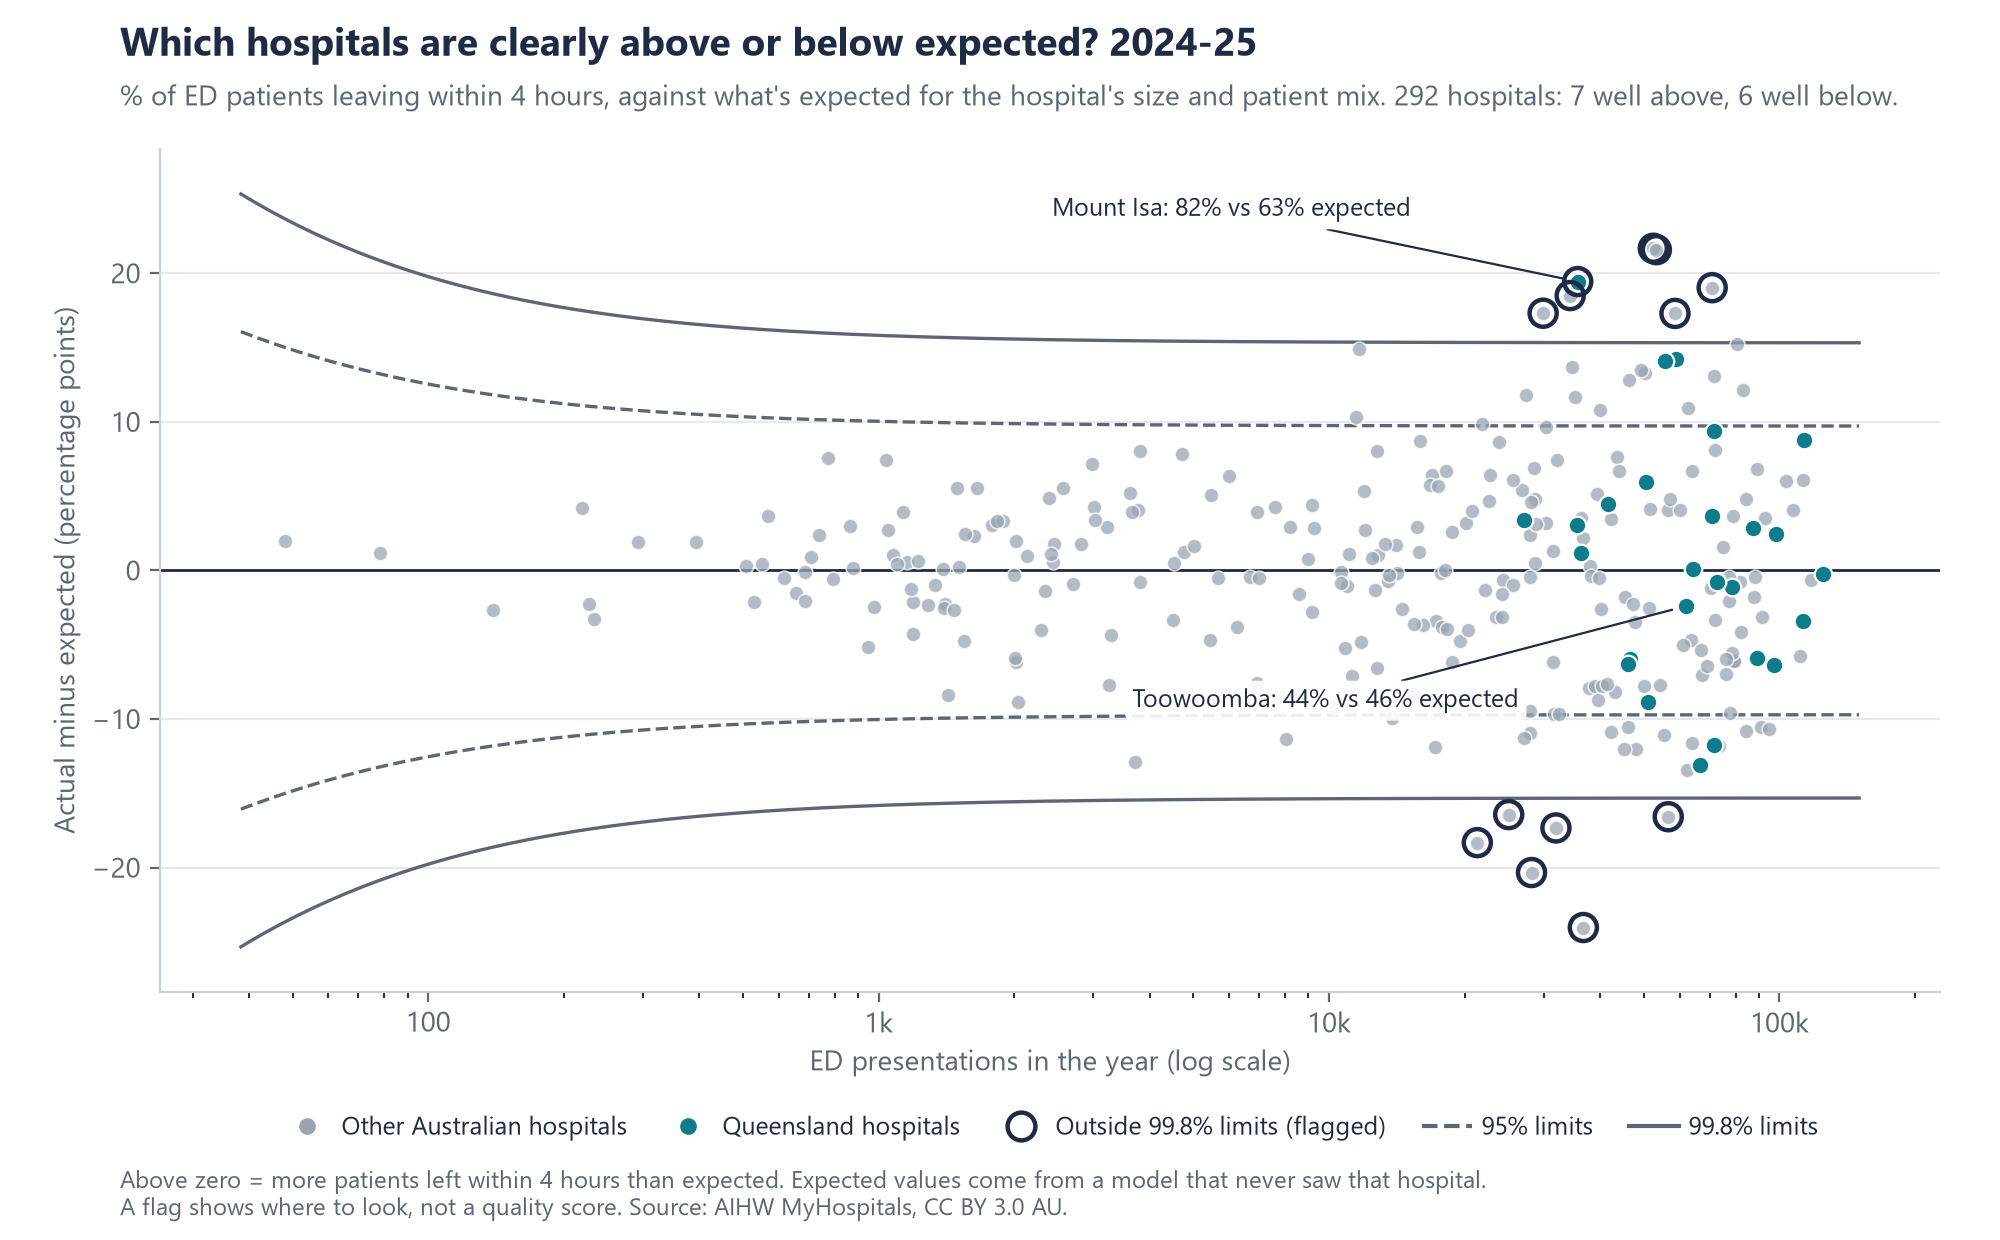
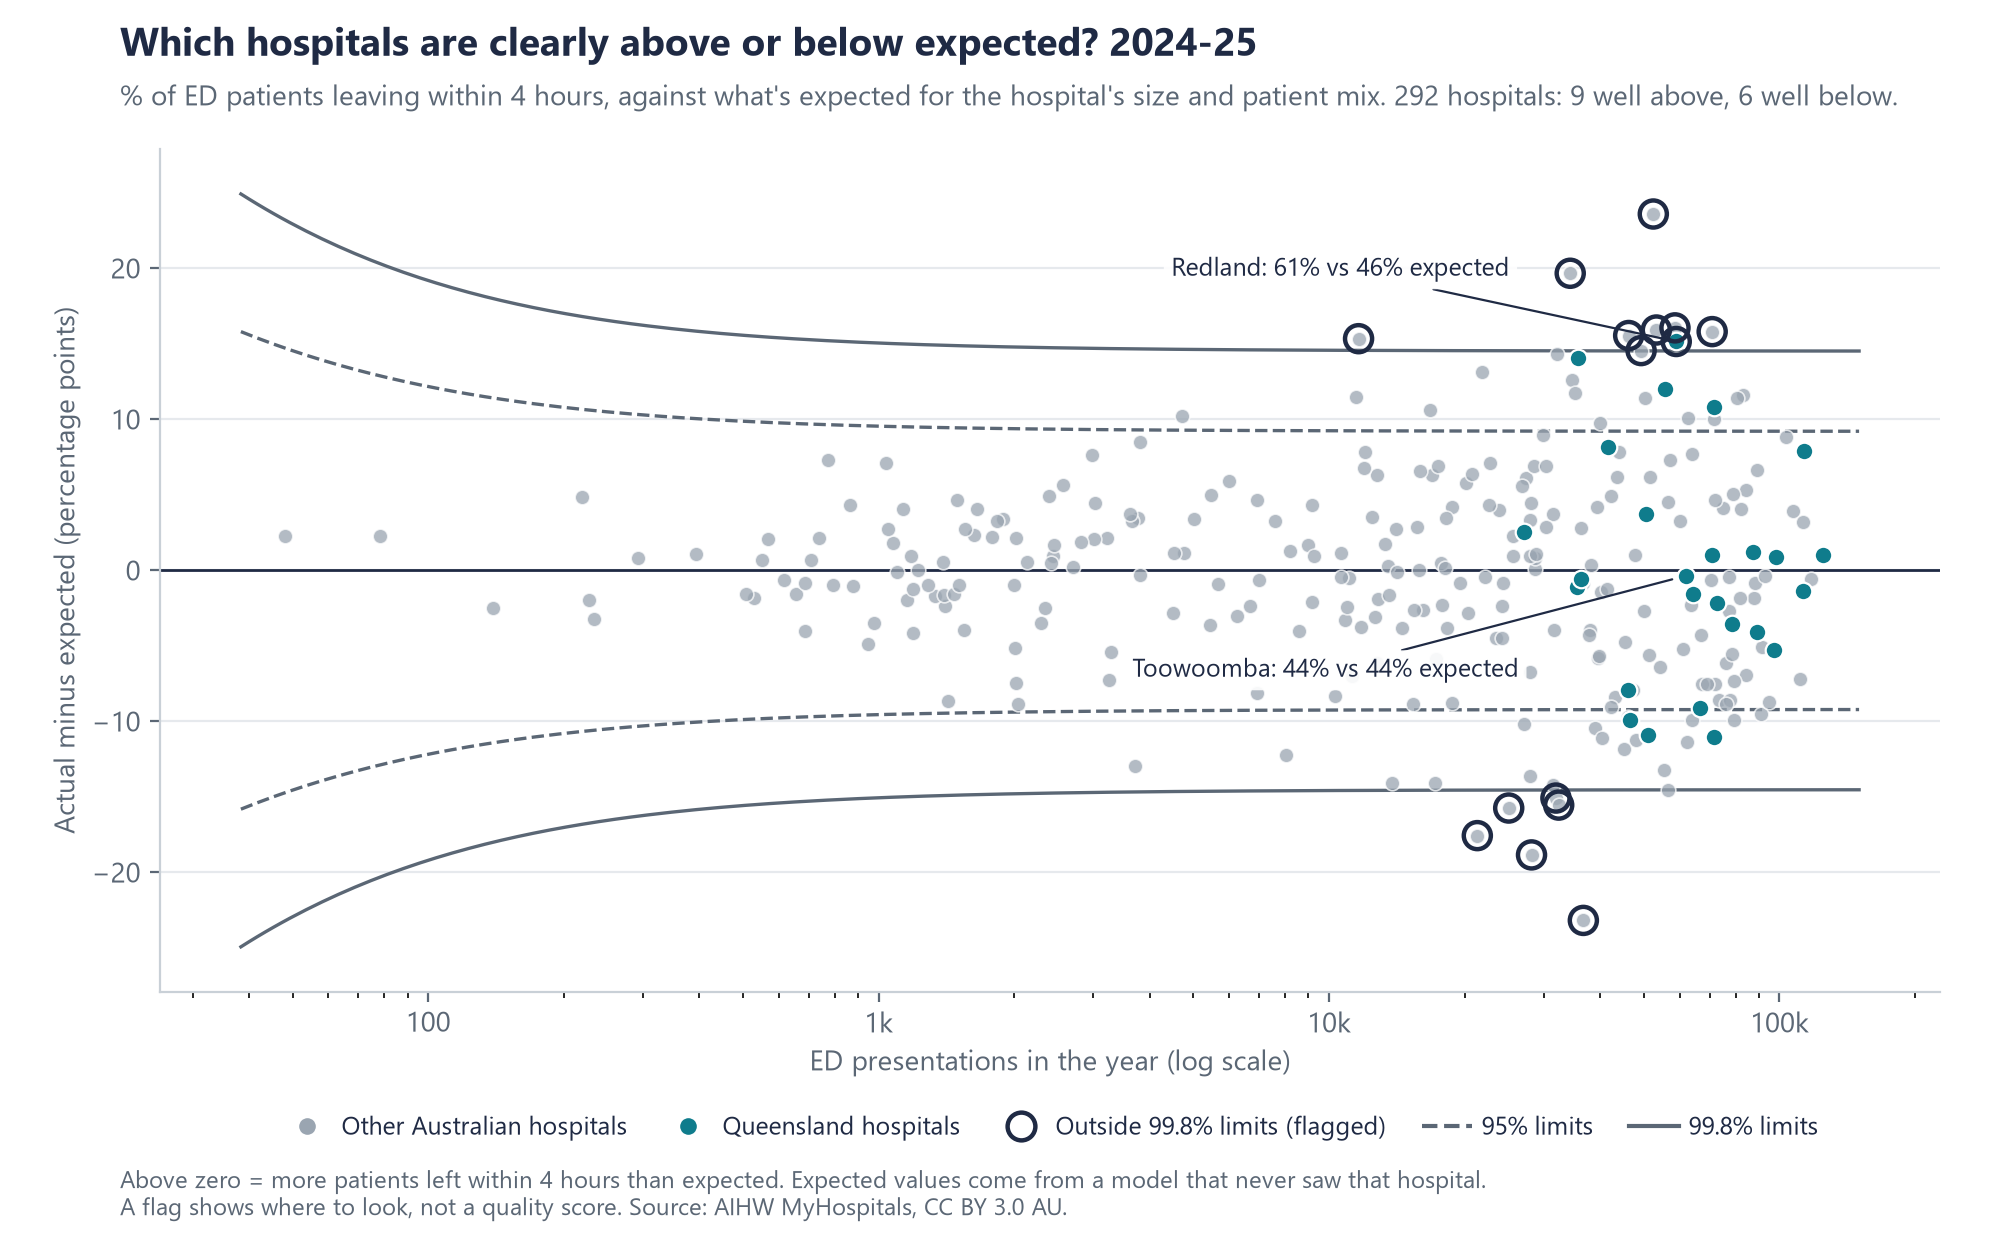
Run the expected-vs-actual model in the pipeline: results table, audit row, retrain only on new data, output tested by dbt

diff --git a/pipeline/ml_expected.py b/pipeline/ml_expected.py
@@ -1,6 +1,7 @@
 """Expected-vs-actual model for the 4-hour ED target.
 
-Phase 2 (evaluation): python -m pipeline.ml_expected
+Full comparison (all methods, sensitivity, importance):  python -m pipeline.ml_expected [--csv out.csv]
+Train and save results (what the pipeline does):          python -m pipeline.ml_expected --train [--force]
 
 Compares two simple baselines with two models. Every hospital-year is predicted
 by a model that never saw that hospital: GroupKFold splits by hospital, so all
@@ -8,6 +9,7 @@ of a hospital's years sit in the same fold. Score = mean absolute error (MAE)
 in percentage points.
 """
 import logging
+import uuid
 
 import numpy as np
 import pandas as pd
@@ -261,13 +263,88 @@ def evaluate(df: pd.DataFrame, csv_path: str | None = None) -> None:
         print(f"\nWrote {len(flags)} rows to {csv_path}")
 
 
+# ── Pipeline step: train, score, save ───────────────────────────────────────
+
+MODEL = "Gradient boosting, with state"            # chosen in Phase 2 (docs/decisions.md)
+BASELINE = "Baseline: peer group and year average"
+MODEL_VERSION = "hgb-state-v1"                      # bump to force a retrain after a code change
+RESULT_COLUMNS = ["reporting_unit_code", "period_label", "fy_start_year", TARGET, "expected",
+                  "residual", "limit_95", "limit_998", "flag"]
+
+
+def current_data_version(conn) -> int:
+    return conn.execute("select max(data_version) from audit.source_loads").fetchone()[0]
+
+
+def already_trained(conn, data_version: int) -> bool:
+    return conn.execute(
+        """select exists (select 1 from audit.model_runs
+                          where data_version = %s and model_version = %s and status = 'success')""",
+        (data_version, MODEL_VERSION),
+    ).fetchone()[0]
+
+
+def run_model(conn, pipeline_run_id: str | None = None, force: bool = False) -> bool:
+    """Train on the latest features and replace marts.ml_ed_expected.
+
+    Skips (returns False) when this model version has already been trained on the
+    current AIHW data version, which changes about once a year.
+    """
+    data_version = current_data_version(conn)
+    if not force and already_trained(conn, data_version):
+        log.info("Model %s already trained on data version %s; skipping", MODEL_VERSION, data_version)
+        return False
+
+    df = load_features(conn)
+    expected = np.clip(out_of_fold(df, METHODS[MODEL]), 0, 100)
+    baseline = out_of_fold(df, METHODS[BASELINE])
+    flags, tau = funnel(df, expected)
+    qld = (df["state"] == "Qld").to_numpy()
+    y = df[TARGET].to_numpy()
+    mae = lambda pred, mask=slice(None): float(mean_absolute_error(y[mask], pred[mask]))  # noqa: E731
+
+    model_run_id = str(uuid.uuid4())
+    rows = [
+        (r.reporting_unit_code, r.period_label, int(r.fy_start_year),
+         float(r.pct_within_4h), round(float(r.expected), 3), round(float(r.residual), 3),
+         round(float(r.limit_95), 3), round(float(r.limit_998), 3), r.flag,
+         data_version, model_run_id)
+        for r in flags.itertuples(index=False)
+    ]
+    n_flagged = int((flags["flag"] != FLAG_NONE).sum())
+
+    with conn.transaction():                       # readers see the old results or the new, never half
+        conn.execute("delete from marts.ml_ed_expected")
+        with conn.cursor().copy(
+            f"copy marts.ml_ed_expected ({', '.join(RESULT_COLUMNS)}, data_version, model_run_id) from stdin"
+        ) as copy:
+            for row in rows:
+                copy.write_row(row)
+        conn.execute(
+            """insert into audit.model_runs
+                   (model_run_id, pipeline_run_id, status, data_version, model_version, model, baseline,
+                    rows_scored, model_mae, model_mae_qld, baseline_mae, baseline_mae_qld, tau, n_flagged)
+               values (%s, %s, 'success', %s, %s, %s, %s, %s, %s, %s, %s, %s, %s, %s)""",
+            (model_run_id, pipeline_run_id, data_version, MODEL_VERSION, MODEL, BASELINE, len(rows),
+             round(mae(expected), 3), round(mae(expected, qld), 3),
+             round(mae(baseline), 3), round(mae(baseline, qld), 3), round(tau, 3), n_flagged),
+        )
+    log.info("Model %s trained on data version %s: MAE %.2f vs baseline %.2f, %d rows, %d flagged",
+             MODEL_VERSION, data_version, mae(expected), mae(baseline), len(rows), n_flagged)
+    return True
+
+
 if __name__ == "__main__":
     import argparse
 
-    parser = argparse.ArgumentParser(description="Evaluate the expected-vs-actual ED model.")
+    parser = argparse.ArgumentParser(description="Expected-vs-actual ED model.")
     parser.add_argument("--csv", help="also write out-of-fold results and funnel flags to this CSV")
+    parser.add_argument("--train", action="store_true", help="train and save results (the pipeline step)")
+    parser.add_argument("--force", action="store_true", help="with --train: retrain even if already done")
     args = parser.parse_args()
     logging.basicConfig(level=logging.INFO, format="%(asctime)s %(levelname)s %(name)s: %(message)s")
-    with psycopg.connect(db_dsn()) as conn:
-        features = load_features(conn)
-    evaluate(features, args.csv)
+    with psycopg.connect(db_dsn(), autocommit=True) as conn:
+        if args.train:
+            run_model(conn, force=args.force)
+        else:
+            evaluate(load_features(conn), args.csv)

diff --git a/pipeline/main.py b/pipeline/main.py
@@ -18,16 +18,21 @@ logging.basicConfig(
 )
 log = logging.getLogger("pipeline")
 
-DBT_CMD = ["dbt", "build", "--project-dir", "dbt", "--profiles-dir", "dbt"]
+DBT_ARGS = ["--project-dir", "dbt", "--profiles-dir", "dbt"]
 RUN_RESULTS = Path("dbt/target/run_results.json")
 STATUS_FILE = Path("status/status.json")
 
 
-def run_dbt(conn, run_id: str) -> bool:
-    """Run dbt models and tests, then save the results. True if nothing failed."""
+# The model's output is tested after the model step, not in the main build
+BUILD = ("build", "--exclude", "source:ml")
+TEST_MODEL_OUTPUT = ("test", "--select", "source:ml")
+
+
+def run_dbt(conn, run_id: str, command: tuple[str, ...] = BUILD) -> bool:
+    """Run dbt (models and tests by default), then save the results. True if nothing failed."""
     from .dbt_audit import record_dbt_results
     RUN_RESULTS.unlink(missing_ok=True)          # never record a stale result
-    result = subprocess.run(DBT_CMD)
+    result = subprocess.run(["dbt", *command, *DBT_ARGS])
     record_dbt_results(conn, run_id, RUN_RESULTS)
     return result.returncode == 0
 
@@ -77,8 +82,11 @@ def main() -> int:
                 status, exit_code = "tests_failed", 2
                 message = "dbt build failed - see marts.rpt_data_quality"
             if status == "success" and os.environ.get("ML_ENABLED") == "1":
-                from .ml_expected import run_model   # planned prediction model; off unless ML_ENABLED=1
-                run_model(conn)
+                from .ml_expected import run_model   # expected-vs-actual model; off unless ML_ENABLED=1
+                run_model(conn, run_id)              # retrains only when the data version changes
+                if not skip_dbt and not run_dbt(conn, run_id, TEST_MODEL_OUTPUT):
+                    status, exit_code = "tests_failed", 2
+                    message = "model output tests failed - see marts.rpt_data_quality"
         except Exception as exc:
             log.exception("Pipeline failed")
             status, message, exit_code = "failed", str(exc)[:1000], 1

diff --git a/docs/devlog.md b/docs/devlog.md
@@ -96,3 +96,23 @@ Marts built as a star schema; 23 automated data tests incl. three-way reconcilia
 - Found because the model's baseline scored differently on each run (9.20, 8.84, 9.08). 398 reporting units have two peer-group labels in the same period: e.g. Toowoomba is "Large regional hospitals" on rate measures (4-hour, elective surgery) but "Not peered" on count measures (presentations, admissions). `distinct on` with ties picked one at random on every dbt build, so the label could flip week to week in Power BI as well as in the model.
 - Fix: prefer a real peer group, and order on every column so the same row always wins. Hospitals in a peer group went from about 127 to 199 of 311; 112 are genuinely "Not peered". Two rebuilds in a row now give identical results.
 - Earlier "184 of 311 hospitals have no peer group" in the model plan was this bug.
+
+### Expected-vs-actual ED model: into the pipeline (Phase 4)
+- `db/init/03-ml-tables.sql`: `marts.ml_ed_expected` (one row per hospital-year: actual, expected, residual, limits, flag) and `audit.model_runs` (data version, model version, MAE vs baseline, tau, flags). Applied to the live database; `powerbi_reader` (both tables) and `dashboard_reader` (marts only) got read access from the existing default privileges, no new grants.
+- `run_model()` (also `python -m pipeline.ml_expected --train [--force]`): trains, then replaces the results table and writes the audit row in one transaction. It skips when this model version has already been trained on the current AIHW data version, so a quiet week costs one query.
+- `pipeline/main.py`: with `ML_ENABLED=1`, the model step runs after a successful build, then `dbt test --select source:ml` checks its output (unique hospital-year, expected 0–100, known flags, hospital exists). The main build excludes those tests so they run once, after the write.
+- Tested with two full pipeline runs from a branch image: the first trained (audit row linked to its pipeline run), the second skipped; dbt PASS=41 then PASS=5 both times. Fresh backup + `scripts/restore_test.sh`: PASS, 14 tables and views match.
+- **Corrected results after the peer-group fix** (Phase 2 and 3 numbers above used random peer groups):
+
+  | Method | MAE | MAE Qld | R² |
+  |---|---|---|---|
+  | Baseline: state and year average | 10.75 | 7.48 | 0.29 |
+  | Baseline: peer group and year average | 7.42 | 5.96 | 0.66 |
+  | Ridge, with state | 5.67 | 6.46 | 0.77 |
+  | Ridge, without state | 5.88 | 7.55 | 0.76 |
+  | **Gradient boosting, with state** | **4.68** | **5.00** | **0.84** |
+  | Gradient boosting, without state | 5.22 | 6.26 | 0.80 |
+
+  Without COVID years 4.83; "<5" fill 0 or 4: 4.69 / 4.73. Importance: size 5.4, year 2.1, resuscitation + emergency share 0.9, state 0.9, peer group 0.8, non-urgent 0.5, admitted 0.4, COVID 0.0. Funnel: tau 4.70, 106 flagged (2.7%); 2024-25: 9 above, 6 below. Queensland flags: Mater Adult 2016-17 and 2019-20, Gladstone 2017-18, Redland 2024-25 (above, 61% vs 46%); Princess Alexandra 2011-12, Sunshine Coast University 2016-17 (below). Mount Isa 2024-25 is no longer flagged. Toowoomba 2024-25: 44% vs 44.4% expected, within limits every year. Chart redrawn.
+- Not switched on yet: the weekly run needs `ML_ENABLED=1` in the server `.env` after this branch is merged.
+- Next: Phase 5, Power BI page 5, model card, README and website.

diff --git a/docs/decisions.md b/docs/decisions.md
@@ -85,3 +85,8 @@
 **Decision:** When a hospital has rows with different peer-group labels in its latest period, take the real peer group over "Not peered"/"Unpeered", and order on enough columns that the same row always wins.
 **Why:** AIHW labels a hospital "Not peered" on measures with no peer comparison (counts) and gives its peer group on the rest. The old `distinct on` had ties, so Postgres picked any row, and the label changed between builds. A dimension that changes when the data hasn't is a silent error: the model's baseline moved by 0.4 points between identical runs, which is how it was found.
 **Trade-off:** The label now describes the hospital's peer group for rate measures. That's what a reader expects, but the "Not peered" fact rows still exist for count measures.
+
+## 2026-10-27 – Retrain the model only when the data changes, and test its output like a table
+**Decision:** The pipeline's model step retrains only when `audit.model_runs` has no successful run for the current AIHW data version and model version (`MODEL_VERSION`, bumped by hand after a code change). Results replace `marts.ml_ed_expected` in one transaction, then dbt tests check them.
+**Why:** AIHW publishes about once a year, so retraining every Monday would just repeat the same answer and add a moving part to every run. Writing the table and the audit row together means a reader never sees half the results, or results without a record of the run that made them. Testing after the write catches a bad model output the same week, and failures land in the same audit and status file as every other test.
+**Trade-off:** A code change doesn't retrain by itself unless `MODEL_VERSION` is bumped (or `--force` is used). The results table holds only the latest run; earlier runs survive only as their audit row.
